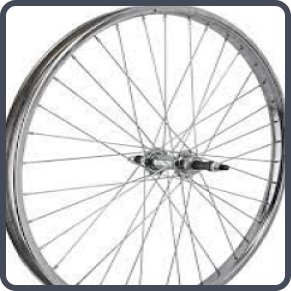
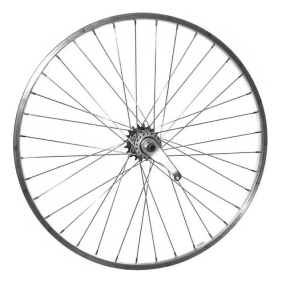
create pieceitem component

diff --git a/src/layouts/PieceItem.jsx b/src/layouts/PieceItem.jsx
@@ -1,0 +1,32 @@
+import Container from '../elements/Container'
+import imageB from '../resources/images/bike3.png'
+import { LinkElement } from '../elements/user/InputUser'
+import Button from '../elements/Button'
+import { ContainerTitle, Title, TitleSecondary } from '../elements/Title'
+import { ImgContainer, Img } from '../elements/StatusIMG'
+import ContainerHome from '../elements/ContainerHome'
+
+const valor = 35
+
+function PieceItem () {
+  return (
+    <Container>
+      <ContainerHome>
+        <ContainerTitle>
+          <Title>Pieza Afectada:</Title>
+        </ContainerTitle>
+        <TitleSecondary margin> Nombre de la pieza </TitleSecondary>
+        <ImgContainer marginBottom>
+          <Img src={imageB} />
+        </ImgContainer>
+        <Title>¿Desea cambiar esta pieza?</Title>
+        <TitleSecondary margin> Valor: ${valor} </TitleSecondary>
+        <Button margin>Si</Button>
+        <Button margin>No por ahora</Button>
+        <LinkElement to='/'>Contacta un asesor</LinkElement>
+      </ContainerHome>
+    </Container>
+  )
+}
+
+export default PieceItem

diff --git a/src/elements/Title.jsx b/src/elements/Title.jsx
@@ -1,7 +1,7 @@
 import styled from 'styled-components'
 import theme from '../themas'
 
-export const Title = styled.h3`
+const Title = styled.h3`
   font-weight: 400;
   font-size: 2rem;
   line-height: 2.42rem;
@@ -9,10 +9,18 @@ export const Title = styled.h3`
   color: ${theme.secondaryColor}
 `
 
-export const ContainerTitle = styled.div`
+const ContainerTitle = styled.div`
   display: flex;
   justify-content: center;
   width: auto;
   height: auto;
   padding-top: 5.4rem;
 `
+const TitleSecondary = styled.h3`
+  font-weight: 700;
+  font-size: 2rem;
+  color: ${theme.secondaryColor};
+  margin-block: ${(props) => props.margin ? '2rem' : '0'};
+`
+
+export { Title, ContainerTitle, TitleSecondary }

diff --git a/src/index.js b/src/index.js
@@ -12,6 +12,7 @@ import Login from './layouts/Login'
 import Register from './layouts/Register'
 import ClientMenu from './layouts/ClientMenu'
 import Marketplacer from './layouts/MarketPlacer'
+import PieceItem from './layouts/PieceItem'
 
 const Index = () => {
   return (
@@ -28,6 +29,7 @@ const Index = () => {
           <Route path='/register' element={<Register />} />
           <Route path='/client-menu' element={<ClientMenu />} />
           <Route path='/marketplace' element={<Marketplacer />} />
+          <Route path='/pieceitem' element={<PieceItem />} />
         </Routes>
       </Router>
     </>

diff --git a/src/elements/StatusIMG.jsx b/src/elements/StatusIMG.jsx
@@ -8,7 +8,8 @@ const ImgContainer = styled.div`
   object-position:center;
   border-radius: 50%;
   margin:auto;
-  border: 6px solid ${theme.secondaryColor};
+  border: ${(props) => props.noBorder ? 'none' : `6px solid ${theme.secondaryColor}`};
+  margin-bottom: ${(props) => props.marginBottom ? '5rem' : '0'}
 `
 
 const Img = styled.img`

diff --git a/src/themas.js b/src/themas.js
@@ -6,7 +6,8 @@ const theme = {
   lightColor: '#CDD1D2',
   lightAccentColor: '#CFC6C1',
   accentColor: '#E49061',
-  boxShadow: '0px 4px 4px rgba(0, 0, 0, 0.15)'
+  boxShadow: '0px 4px 4px rgba(0, 0, 0, 0.15)',
+  fontPrimary: '#FFFFFF'
 }
 
 export default theme
